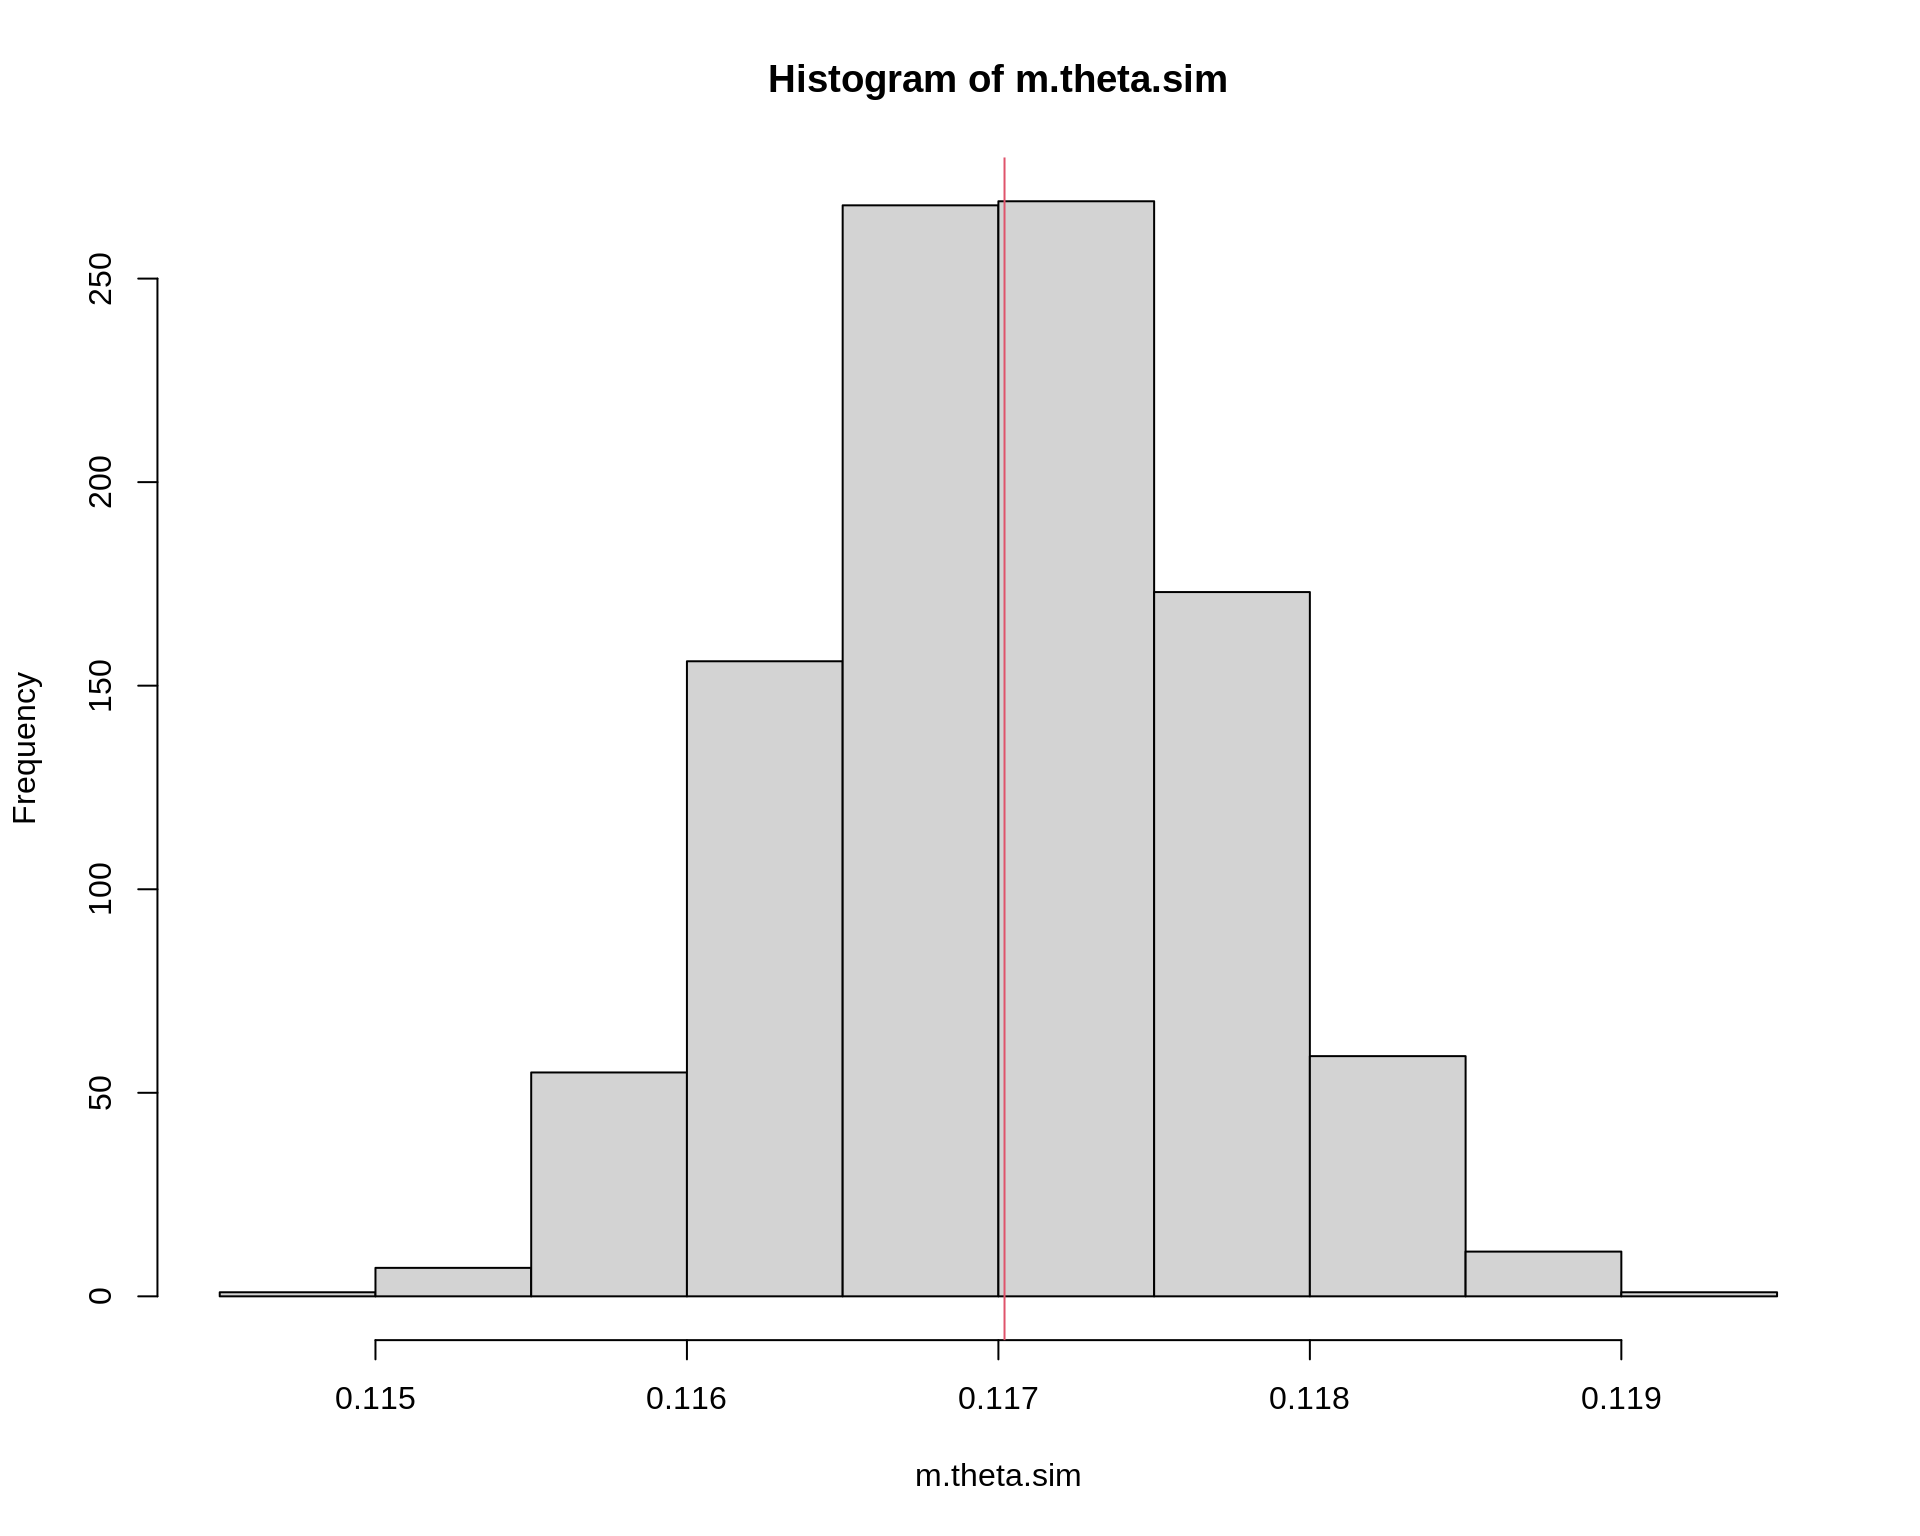
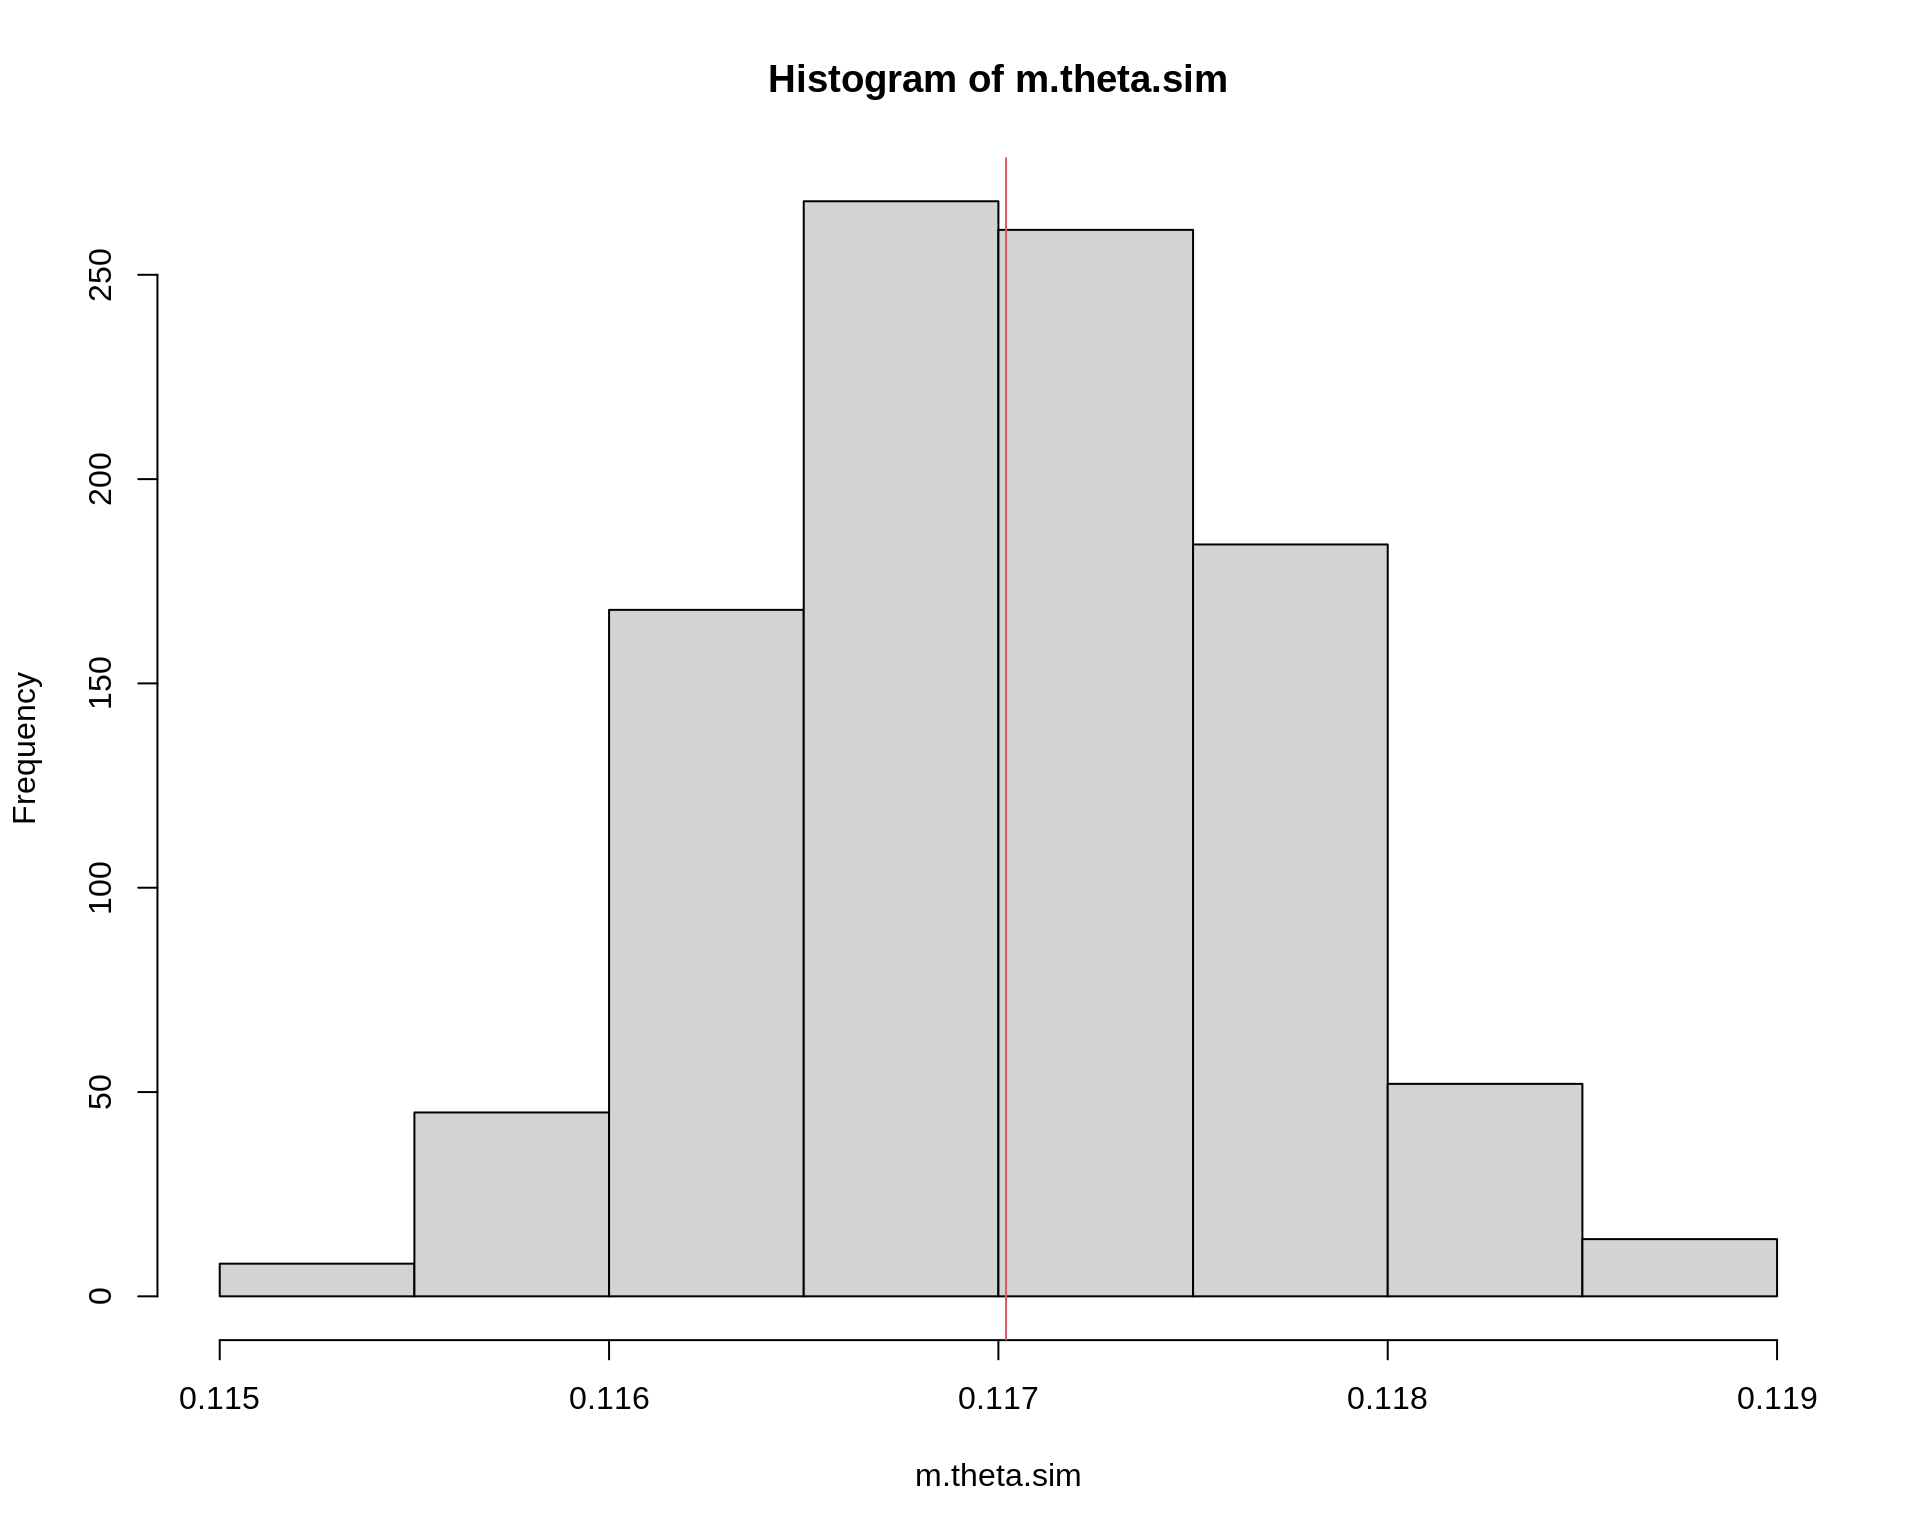
deploy: a5d6f143419fa7f8acc2ef11d81f83c8d3e5cd3a

diff --git a/05_RNG_transform.html b/05_RNG_transform.html
@@ -454,7 +454,7 @@ x &lt;- floor(1 + log(v) / log(1 - (1 - theta)^u))
 k &lt;- 1:max(x)
 p &lt;- -1/log(1 - theta) * theta^k/k
 ## Compara a proporção de valores gerados com a prob. teórica
-cbind(&quot;Gerado&quot; = prop.table(table(x)), &quot;Teórico&quot; = p)</code></pre>
+(tab &lt;- cbind(&quot;Gerado&quot; = prop.table(table(x)), &quot;Teórico&quot; = p))</code></pre>
 <pre><code>#   Gerado      Teórico
 # 1  0.736 0.7213475204
 # 2  0.168 0.1803368801
@@ -464,6 +464,9 @@ cbind(&quot;Gerado&quot; = prop.table(table(x)), &quot;Teórico&quot; = p)</code
 # 6  0.001 0.0037570183
 # 7  0.002 0.0016101507
 # 8  0.001 0.0007044409</code></pre>
+<pre class="r"><code>apply(tab, 2, sum)</code></pre>
+<pre><code>#    Gerado   Teórico 
+# 1.0000000 0.9994273</code></pre>
 <pre class="r"><code>## Comparação gráfica
 par(mfrow = c(1, 2))
 plot(prop.table(table(x)), xlab = &quot;X&quot;, ylab = &quot;P[X]&quot;)
@@ -543,7 +546,7 @@ x &lt;- rowSums(X)
 k &lt;- 0:max(x)
 p &lt;- dbinom(k, size = size, prob = prob)
 ## Compara a proporção de valores gerados com a prob. teórica
-round(cbind(&quot;Gerado&quot; = prop.table(table(x)), &quot;Teórico&quot; = p), 3)</code></pre>
+(tab &lt;- round(cbind(&quot;Gerado&quot; = prop.table(table(x)), &quot;Teórico&quot; = p), 3))</code></pre>
 <pre><code>#   Gerado Teórico
 # 0  0.010   0.016
 # 1  0.097   0.094
@@ -552,6 +555,9 @@ round(cbind(&quot;Gerado&quot; = prop.table(table(x)), &quot;Teórico&quot; = p)
 # 4  0.236   0.234
 # 5  0.111   0.094
 # 6  0.017   0.016</code></pre>
+<pre class="r"><code>apply(tab, 2, sum)</code></pre>
+<pre><code>#  Gerado Teórico 
+#       1       1</code></pre>
 <pre class="r"><code>## Comparação gráfica
 par(mfrow = c(1, 2))
 plot(prop.table(table(x)), xlab = &quot;X&quot;, ylab = &quot;P[X]&quot;)
@@ -766,7 +772,7 @@ boxmuller(2)</code></pre>
 </div>
 <div id="método-de-coordenadas-polares" class="section level2">
 <h2><span class="header-section-number">4.3</span> Método de coordenadas polares</h2>
-<p>O método de coordenadas polares (ou simplemente método polar) é uma variação do método de Box-Muller. A motivação do método foi a de evitar o uso de funções transcendentais como seno e cossseno.</p>
+<p>O método de coordenadas polares (ou simplemente método polar) é uma variação do método de Box-Muller. A motivação do método foi a de evitar o uso de funções transcendentais como seno e cosseno.</p>
 <ol style="list-style-type: decimal">
 <li>Gere valores <span class="math inline">\(u_1, u_2 \sim \text{U}(-1, 1)\)</span></li>
 <li>Calcule <span class="math inline">\(r^2 = u_1^2 + u_2^2\)</span>.</li>
@@ -789,7 +795,7 @@ x2 &lt;- u2[ac] * z
 plotcirc()
 points(u1[ac], u2[ac], pch = 1, col = 3)
 points(u1[!ac], u2[!ac], pch = 1, col = 2)</code></pre>
-<p><img src="figures/05_RNG_transform/unnamed-chunk-13-1.png" width="80%" style="display: block; margin: auto;" /></p>
+<p><img src="figures/05_RNG_transform/unnamed-chunk-14-1.png" width="80%" style="display: block; margin: auto;" /></p>
 <p>Note que a taxa de aceitação será sempre a razão entre a área do círculo e a área do quadrado. A área do cículo é <span class="math inline">\(A_c = \pi r^2 = \pi\)</span>. A área do quadrado é <span class="math inline">\(A_q = l^2 = (2r)^2 = 4\)</span>. Portanto, a taxa de aceitação (teórica) será <span class="math display">\[
 \frac{A_c}{A_q} = \frac{\pi}{4} \approx 0.785
 \]</span></p>
@@ -818,22 +824,22 @@ q &lt;- qnorm(ppoints(Nsim))
 qqplot(q, c(x1, x2))
 abline(0, 1, col = 2)
 par(mfrow = c(1, 1))</code></pre>
-<p><img src="figures/05_RNG_transform/unnamed-chunk-16-1.png" width="80%" style="display: block; margin: auto;" /></p>
+<p><img src="figures/05_RNG_transform/unnamed-chunk-17-1.png" width="80%" style="display: block; margin: auto;" /></p>
 <p>Podemos também defnir uma função gernérica para gerar <span class="math inline">\(n\)</span> valores:</p>
 <pre class="r"><code>polarmethod &lt;- function(n) {
     m &lt;- ceiling(n/2)
     x1 &lt;- numeric(m)
     x2 &lt;- numeric(m)
-    i &lt;- 1
-    while (i &lt;= m) {
+    i &lt;- 0
+    while (i &lt; m) {
         u1 &lt;- runif(1, -1, 1)
         u2 &lt;- runif(1, -1, 1)
         R2 &lt;- u1^2 + u2^2
         if (R2 &lt;= 1) {
+            i &lt;- i + 1
             z &lt;- sqrt((-2 * log(R2))/R2)
             x1[i] &lt;- u1 * z
             x2[i] &lt;- u2 * z
-            i &lt;- i + 1
         }
     }
     x &lt;- c(x1, x2)
@@ -847,16 +853,16 @@ polarmethod(2)</code></pre>
 <pre><code># [1]  0.5076860  0.8425125 -0.8518986  0.7577005</code></pre>
 <pre class="r"><code>polarmethod(5)</code></pre>
 <pre><code># [1]  0.5641546  0.1920185  0.2441716 -1.0407564  0.7668041</code></pre>
-<p>Comparando os dois métodos vemos que, apesar do método polar não usar funções seno e cosseno, é necessário usar o <code>while()</code>, o que “encarece” o algoritmo computacionalemnte.</p>
+<p>Comparando os dois métodos vemos que, apesar do método polar não usar funções seno e cosseno, é necessário usar o <code>while()</code>, o que “encarece” o algoritmo computacionalmente.</p>
 <pre class="r"><code>microbenchmark::microbenchmark(boxmuller(1000), polarmethod(1000))</code></pre>
 <pre><code># Unit: microseconds
 #               expr    min      lq     mean median      uq    max neval cld
-#    boxmuller(1000)   63.8   66.00   67.854   66.9   68.55  107.1   100  a 
-#  polarmethod(1000) 2604.3 2647.05 2912.675 2683.8 2740.35 7375.5   100   b</code></pre>
+#    boxmuller(1000)   64.2   66.45   71.215   68.8   74.25  143.6   100  a 
+#  polarmethod(1000) 2594.5 2681.80 2976.056 2714.5 2771.10 7887.5   100   b</code></pre>
 </div>
 <div id="a-função-rnorm" class="section level2">
 <h2><span class="header-section-number">4.4</span> A função <code>rnorm()</code></h2>
-<p>No R, sabemos que a função <code>rnorm()</code> serve para gerar valores aleatórios da distribuição normal. Esta função usa um algoritmo chamadpo de “inversão”, cujos detalhes estão descritos em <code>help(qnorm)</code>.</p>
+<p>No R, sabemos que a função <code>rnorm()</code> serve para gerar valores aleatórios da distribuição normal. Esta função usa um algoritmo chamado de “inversão”, cujos detalhes estão descritos em <code>help(qnorm)</code>.</p>
 <p>No entanto, assim como no caso da Uniforme, também estão implementados outros algoritmos para gerar valores da Normal, incluindo o algoritmo de Box-Muller.</p>
 <pre class="r"><code>## Confere os métodos padrão para a geração de valores aleatórios. O
 ## primeiro algoritmo é da Uniforme, o segundo é o da Normal e o
@@ -877,17 +883,21 @@ set.seed(1, normal.kind = &quot;Inversion&quot;)
 RNGkind()</code></pre>
 <pre><code># [1] &quot;Mersenne-Twister&quot; &quot;Inversion&quot;        &quot;Rejection&quot;</code></pre>
 <pre class="r"><code>## Gera valores com o algoritmo padrão
-zz &lt;- rnorm(1000)</code></pre>
+zz &lt;- rnorm(1000)
+## Usando o método polar implementado aqui
+kk &lt;- polarmethod(1000)</code></pre>
 <p>Comparando todo mundo:</p>
 <pre class="r"><code>plot(ecdf(xx), main = &quot;&quot;)
 plot(ecdf(yy), col = 3, add = TRUE)
 plot(ecdf(zz), col = 4, add = TRUE)
+plot(ecdf(kk), col = 5, add = TRUE)
 curve(pnorm(x), add = TRUE, col = 2)
 legend(&quot;right&quot;,
        legend = c(&quot;Box-Muller (R)&quot;, &quot;Box-Muller (Implementado)&quot;,
-                  &quot;Inversion&quot;, &quot;Teórica&quot;), cex = 0.8,
-       col = c(1, 3, 4, 2), lty = 1, bty = &quot;n&quot;)</code></pre>
-<p><img src="figures/05_RNG_transform/unnamed-chunk-20-1.png" width="80%" style="display: block; margin: auto;" /></p>
+                  &quot;Inversion&quot;, &quot;Polar (Implementado)&quot;,
+                  &quot;Teórica&quot;), cex = 0.8,
+       col = c(1, 3, 4, 5, 2), lty = 1, bty = &quot;n&quot;)</code></pre>
+<p><img src="figures/05_RNG_transform/unnamed-chunk-21-1.png" width="80%" style="display: block; margin: auto;" /></p>
 </div>
 </div>
 <div id="funções" class="section level1">

diff --git a/06_MC_intro.html b/06_MC_intro.html
@@ -451,7 +451,7 @@ x &lt;- runif(m)
 theta.hat &lt;- exp(-x)
 ## Calcula a média
 (m.theta.hat &lt;- sum(theta.hat)/m)</code></pre>
-<pre><code># [1] 0.6313544</code></pre>
+<pre><code># [1] 0.6311937</code></pre>
 <p>Nesse caso, podemos obter a solução analítica e integração numérica no R para comparar as estimativas</p>
 <pre class="r"><code>## Solução analítica
 (theta &lt;- 1 - exp(-1))</code></pre>
@@ -488,7 +488,7 @@ x &lt;- runif(m, min = a, max = b)
 theta.hat &lt;- exp(-x)
 ## Calcula a média * (b - a)
 (m.theta.hat &lt;- (sum(theta.hat)/m) * (b - a))</code></pre>
-<pre><code># [1] 0.1171233</code></pre>
+<pre><code># [1] 0.1173324</code></pre>
 <p>Nesse caso, podemos obter a solução analítica e integração numérica no R para comparar as estimativas</p>
 <pre class="r"><code>## Solução analítica
 (theta &lt;- exp(-2) - exp(-4))</code></pre>
@@ -509,14 +509,14 @@ integrate(function(x) exp(-x), lower = 2, upper = 4)</code></pre>
 \]</span></p>
 <p>Seguindo o exemplo anterior, vimos que a estimativa da integral é</p>
 <pre class="r"><code>m.theta.hat</code></pre>
-<pre><code># [1] 0.1171233</code></pre>
+<pre><code># [1] 0.1173324</code></pre>
 <p>e a variância relacionada ao estimador pode então ser calculada como</p>
 <pre class="r"><code>## Variancia
 (v.theta.hat &lt;- sum((theta.hat - m.theta.hat)^2)/m^2)</code></pre>
-<pre><code># [1] 4.499182e-07</code></pre>
+<pre><code># [1] 4.515315e-07</code></pre>
 <pre class="r"><code>## Erro padrão
 (se.theta.hat &lt;- sqrt(v.theta.hat))</code></pre>
-<pre><code># [1] 0.0006707594</code></pre>
+<pre><code># [1] 0.0006719609</code></pre>
 <p>Pelo Teorema do Limite Central, temos que</p>
 <p><span class="math display">\[
 \frac{\hat\theta - \text{E}(\hat\theta)}{\sqrt{\hat{V}(\hat\theta)}}
@@ -530,10 +530,10 @@ hist(m.theta.sim); abline(v = theta, col = 2)</code></pre>
 <p>Com esse resultado, podemos inclusive fornecer um intervalo de confiança associado à nossa estimativa</p>
 <pre class="r"><code>## Media e variancia
 c(m.theta.hat, v.theta.hat, se.theta.hat)</code></pre>
-<pre><code># [1] 1.171233e-01 4.499182e-07 6.707594e-04</code></pre>
+<pre><code># [1] 1.173324e-01 4.515315e-07 6.719609e-04</code></pre>
 <pre class="r"><code>## Intervalo de confiança (95%)
 c(m.theta.hat - 1.96 * se.theta.hat, m.theta.hat + 1.96 * se.theta.hat)</code></pre>
-<pre><code># [1] 0.1158086 0.1184380</code></pre>
+<pre><code># [1] 0.1160154 0.1186495</code></pre>
 <p>Veja que assintoticamente, i.e., conforme aumentamos o tamanho da amostra, o valor da integral se aproxima cada vez mais do valor verdadeiro (que nesse caso sabemos calcular analiticamente, apenas para comparação).</p>
 <pre class="r"><code>## Simula a convergência para o verdadeiro valor conforme aumenta o
 ## tamanho da amostra

diff --git a/programacao.html b/programacao.html
@@ -778,15 +778,15 @@ st1 &lt;- system.time(
 )
 st1</code></pre>
 <pre><code>#    user  system elapsed 
-#   0.075   0.000   0.075</code></pre>
+#   0.081   0.000   0.082</code></pre>
 <pre class="r"><code>## Tempo de execução usando a regra da reciclagem
 st2 &lt;- system.time(
     y2 &lt;- x^2
 )
 st2</code></pre>
 <pre><code>#    user  system elapsed 
-#   0.004   0.000   0.004</code></pre>
-<p>Olhando o resultado de <code>elapsed</code>, que é o tempo total de execução de uma função medido por <code>system.time()</code>, notamos que usando a regra da reciclagem, o cálculo é aproximadamente 0.075/0.004 = 18.75 vezes mais rápido. Claramente esse é só um exemplo de um cálculo muito simples. Mas em situações mais complexas, a diferença entro o tempo de execução das duas formas pode ser muito maior.</p>
+#   0.004   0.000   0.005</code></pre>
+<p>Olhando o resultado de <code>elapsed</code>, que é o tempo total de execução de uma função medido por <code>system.time()</code>, notamos que usando a regra da reciclagem, o cálculo é aproximadamente 0.082/0.005 = 16.4 vezes mais rápido. Claramente esse é só um exemplo de um cálculo muito simples. Mas em situações mais complexas, a diferença entro o tempo de execução das duas formas pode ser muito maior.</p>
 <div class="panel panel-primary">
 <div class="panel-heading">
 Uma nota de precaução

diff --git a/objetos-classes.html b/objetos-classes.html
@@ -1513,7 +1513,7 @@ class(vec)</code></pre>
 # 
 # function (x, ...) 
 # standardGeneric(&quot;mean&quot;)
-# &lt;environment: 0x555564982cf0&gt;
+# &lt;environment: 0x564066029c50&gt;
 # Methods may be defined for arguments: x
 # Use  showMethods(mean)  for currently available ones.</code></pre>
 <p>Agora veja o código fonte da função <code>mean.default</code>, que é o método específico para vetores numéricos</p>
@@ -1542,7 +1542,7 @@ class(vec)</code></pre>
 #     }
 #     .Internal(mean(x))
 # }
-# &lt;bytecode: 0x5555585c9e58&gt;
+# &lt;bytecode: 0x564059c70e58&gt;
 # &lt;environment: namespace:base&gt;</code></pre>
 <p>Agora suponha que você ddeseja criar uma função que calcule a média para um objeto de uma classe diferente daquelas previamente definidas. Por exemplo, suponha que você quer que a função <code>mean()</code> retorne a média das linhas de uma matriz.</p>
 <pre class="r"><code>set.seed(1)
@@ -1607,7 +1607,7 @@ class(dl)</code></pre>
 </div>
 <div id="informação-de-sessão" class="section level1">
 <h1><span class="header-section-number">11</span> Informação de Sessão</h1>
-<pre><code># Monday, 21 February, 2022, 21:49
+<pre><code># Wednesday, 23 February, 2022, 20:11
 # ----------------------------------------
 # R version 4.1.2 (2021-11-01)
 # Platform: x86_64-pc-linux-gnu (64-bit)

diff --git a/10_bootstrap.html b/10_bootstrap.html
@@ -724,7 +724,7 @@ obj</code></pre>
 #  $ seed     : int [1:626] 10403 67 374337935 -66916328 796352990 -1344538218 7326455 801261936 -841320945 1823181309 ...
 #  $ statistic:function (x, i)  
 #   ..- attr(*, &quot;srcref&quot;)= &#39;srcref&#39; int [1:8] 2 6 4 1 6 1 2 4
-#   .. ..- attr(*, &quot;srcfile&quot;)=Classes &#39;srcfilecopy&#39;, &#39;srcfile&#39; &lt;environment: 0x5555615bb010&gt; 
+#   .. ..- attr(*, &quot;srcfile&quot;)=Classes &#39;srcfilecopy&#39;, &#39;srcfile&#39; &lt;environment: 0x564062cdfc78&gt; 
 #  $ sim      : chr &quot;ordinary&quot;
 #  $ call     : language boot(data = law, statistic = r, R = 2000)
 #  $ stype    : chr &quot;i&quot;
